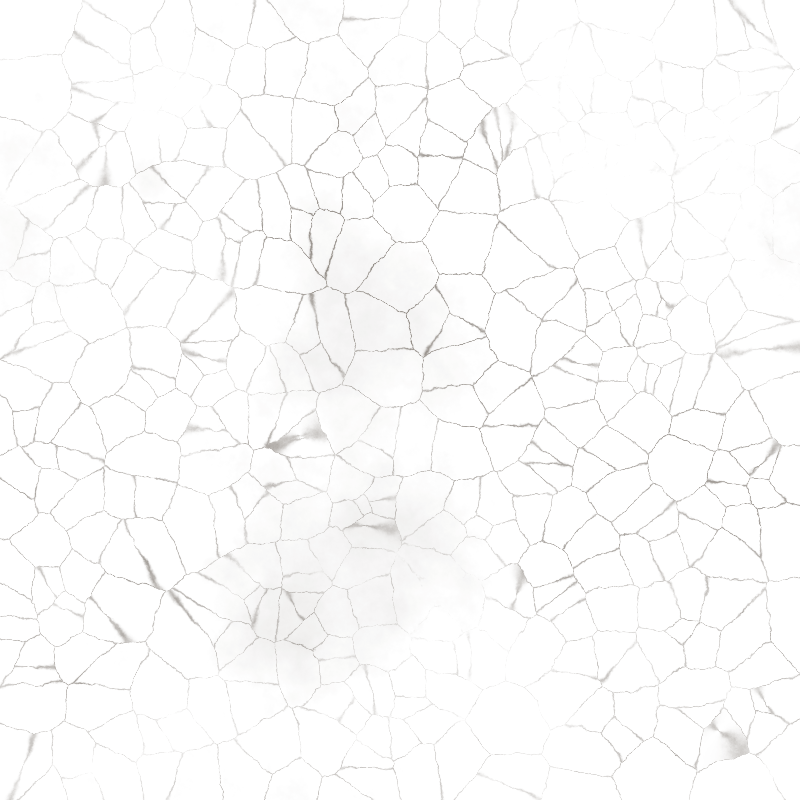
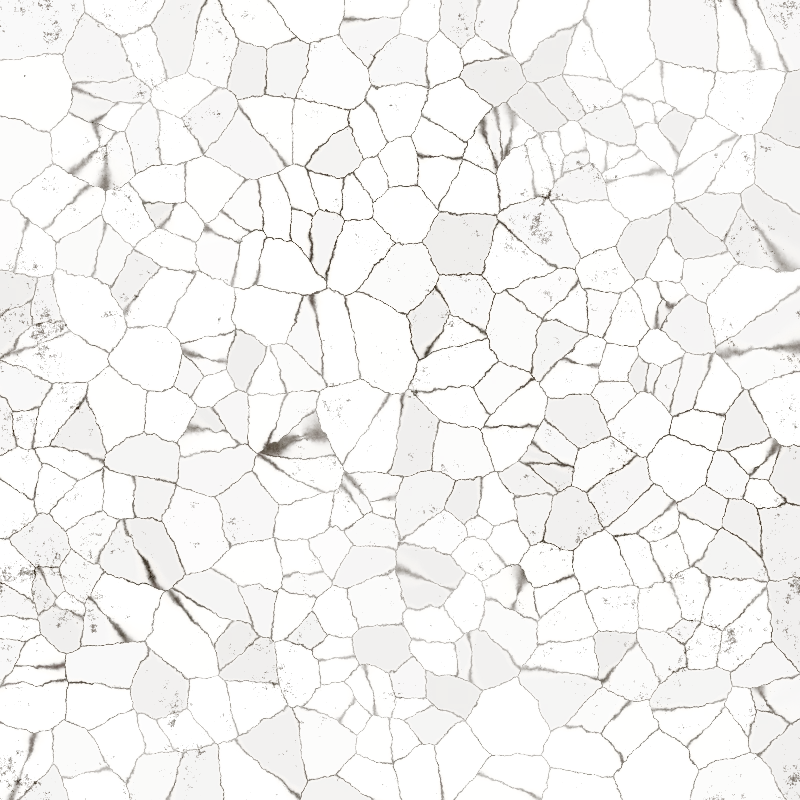
Tv-scherm: wapenkunde-pagina, Spotify "nu speelt", ruwere klokrand, vast aftellen, rode herten
- Wapenschilderen (16:00–18:00): een volledige pagina wapenkunde. De klok
  vier keer zo klein rechtsboven (alleen het uur). Uitleg: de twee metalen
  en vijf kleuren met hun heraldische namen (groot) en verf (klein), de
  gouden regel met goede en foute voorbeelden, delingen, stukken, hoe u een
  wapen leest, en hoeveel tijd er nog is tot de keuring.
- Spotify: OAuth met PKCE (geen server, geen geheim), elke 5 s
  currently-playing, bij een nieuw nummer een melding met albumhoes.
  Koppelen via het testknopje; SPOTIFY.clientId in feestje-config.js.
  Getest tegen een nagebootste Spotify.
- Aftellen tot middernacht in drie vaste vakjes: niets verspringt meer.
- Klokrand: craquelé met lichte opstaande randjes en afgebladderde plekjes,
  ook over de zon; randen in gehamerd goud (feestje-img/tv/klok.py).
- Banden: herten in rood (herten-rood.svg), blokken verder uit elkaar,
  korrel, vlekken en sleet over de band.

Claude-Session: https://claude.ai/code/session_01XPSXEtKXmQEYjGpE3XqKUk

diff --git a/feestje-tv.html b/feestje-tv.html
@@ -25,6 +25,9 @@
       background-color: var(--nacht); font-family: "Grenze", Georgia, serif; color: #f1e6cf; }
     .fries { position: absolute; left: 0; width: 1920px; height: 92px; border-top: 6px solid var(--rood); border-bottom: 6px solid var(--rood); }
     .fries svg { display: block; }
+    /* geschilderd op kalk: korrel en vlekken over de band (vooraf berekend, zie feestje-img/textuur) */
+    .fries::after { content: ""; position: absolute; inset: 0; pointer-events: none;
+      background: url(feestje-img/textuur/vlekken.webp) 0 0 / 600px 600px, url(feestje-img/textuur/korrel.webp) 0 0 / 220px 220px, url(feestje-img/tv/sleet-perk.webp) 0 0 / 256px 256px; opacity: .85; }
     #f-boven { top: 0; } #f-onder { bottom: 0; }
     .label { font-variant-caps: small-caps; letter-spacing: .1em; font-size: 26px; color: #c9a24a; }
 
@@ -106,6 +109,9 @@
     .melding b { display: block; font-variant-caps: small-caps; letter-spacing: .1em; color: var(--rubriek); font-size: 26px; font-weight: 600; }
     .melding span { font-size: 30px; line-height: 1.2; }
     .melding.weg { animation: uit .5s ease-in both; }
+    .melding.muziek img { width: 64px; height: 64px; object-fit: cover; box-shadow: 0 0 0 2px #6e4a24; }
+    .melding.muziek .noot { font-size: 48px; text-align: center; color: var(--rubriek); }
+    .melding.muziek i { font-style: normal; font-size: 26px; color: var(--inkt-zacht); }
     @keyframes in { from { opacity: 0; transform: translateX(40px); } }
     @keyframes uit { to { opacity: 0; transform: translateX(40px); } }
 
@@ -115,6 +121,37 @@
     #aftel .n { font-family: "Maximilian", serif; font-size: 440px; line-height: 1; color: var(--goud); }
     #aftel .z { font-family: "Maximilian", serif; font-size: 150px; line-height: 1.1; color: var(--goud); }
     #aftel p { font-size: 46px; margin: 10px 0 0; color: #f1e6cf; }
+
+    /* ---------- wapenschilderen (16:00–18:00): een volledige pagina wapenkunde, de klok klein rechtsboven ---------- */
+    #klok, #nu, #paneel, #wapenkunde { transition: opacity .8s ease; }
+    #wapenkunde { position: absolute; left: 34px; top: 112px; width: 1852px; height: 860px; padding: 40px 70px 30px 70px; color: var(--inkt); z-index: 2;
+      background: url(feestje-img/tv/perkament.webp) center / 100% 100% no-repeat; filter: drop-shadow(0 18px 26px rgba(0,0,0,.6)); opacity: 0; pointer-events: none; }
+    #stage.wapens #wapenkunde { opacity: 1; }
+    #stage.wapens #paneel, #stage.wapens #nu { opacity: 0; pointer-events: none; }
+    /* 4× zo klein (800 → 200 px), rechtsboven op het perkament; alleen het uur blijft leesbaar */
+    #stage.wapens #klok { left: 1650px; top: 128px; width: 210px; height: 210px; z-index: 3; }
+    #stage.wapens #klok .klein-weg { display: none; }
+    #stage.wapens #k-tijd { font-size: 74px; transform: translateY(60px); }
+    #wapenkunde h1 { font-family: "Maximilian", serif; font-weight: 400; font-size: 70px; line-height: 1; margin: 0; display: flex; align-items: flex-end; }
+    #wapenkunde h1 svg { width: 96px; height: 96px; margin-right: 4px; }
+    #wapenkunde .sub { font-size: 28px; color: var(--inkt-zacht); margin: 6px 260px 14px 0; }
+    #wapenkunde .sub b { color: var(--rubriek); font-weight: 600; }
+    .wk { display: grid; grid-template-columns: 500px 1fr; gap: 0 60px; }
+    .wk h2 { font-family: "Maximilian", serif; font-weight: 400; font-size: 38px; margin: 0 0 4px; color: var(--rubriek); }
+    .wk p { font-size: 26px; line-height: 1.25; margin: 0 0 12px; }
+    .tincturen { display: grid; grid-template-columns: 1fr 1fr; gap: 6px 24px; }
+    .tinct { display: grid; grid-template-columns: 46px 1fr; gap: 0 12px; align-items: center; height: 54px; }
+    .tinct svg { width: 42px; height: 50px; }
+    .tinct b { font-family: "Maximilian", serif; font-weight: 400; font-size: 34px; line-height: 1; }
+    .tinct small { font-size: 24px; color: var(--inkt-zacht); margin-left: 8px; }
+    .groep { font-variant-caps: small-caps; letter-spacing: .08em; font-size: 24px; color: #7a5a30; margin: 4px 0 0; grid-column: 1 / -1; }
+    .rijtje { display: flex; gap: 22px; margin: 4px 0 16px; }
+    .rijtje figure { margin: 0; text-align: center; width: 120px; }
+    .rijtje svg { width: 96px; height: 116px; display: block; margin: 0 auto 4px; }
+    .rijtje figcaption { font-size: 25px; line-height: 1.1; }
+    .rijtje .goed figcaption b { color: #3f6b2f; } .rijtje .fout figcaption b { color: var(--rubriek); }
+    .rijtje .fout svg { opacity: .9; }
+    .rijtje.klein figure { width: 108px; } .rijtje.klein svg { width: 74px; height: 89px; }
 
     /* ---------- het testknopje rechtsonder: de tijd verzetten ---------- */
     #test-knop { position: absolute; right: 18px; bottom: 18px; z-index: 20; width: 58px; height: 58px; border-radius: 50%; border: 2px solid #c9a24a;
@@ -134,8 +171,8 @@
 <div id="stage">
   <svg width="0" height="0" style="position:absolute" aria-hidden="true">
     <defs>
-      <pattern id="p-herten" width="111" height="80" patternUnits="userSpaceOnUse"><rect width="111" height="80" fill="#d9a23e" /><image href="feestje-img/malesov/herten.svg" x="2" y="4" width="107" height="72" /></pattern>
-      <pattern id="p-draken" width="105.7" height="80" patternUnits="userSpaceOnUse"><rect width="105.7" height="80" fill="#d9a23e" /><image href="feestje-img/malesov/draken.svg" x="0" y="2" width="105.7" height="76" /></pattern>
+      <pattern id="p-herten" width="130" height="80" patternUnits="userSpaceOnUse"><rect width="130" height="80" fill="#d9a23e" /><image href="feestje-img/malesov/herten-rood.svg" x="11.5" y="4" width="107" height="72" /></pattern>
+      <pattern id="p-draken" width="124" height="80" patternUnits="userSpaceOnUse"><rect width="124" height="80" fill="#d9a23e" /><image href="feestje-img/malesov/draken.svg" x="9.15" y="2" width="105.7" height="76" /></pattern>
     </defs>
   </svg>
   <div class="fries" id="f-boven"><svg width="1920" height="80"><rect width="1920" height="80" fill="url(#p-herten)" /></svg></div>
@@ -150,27 +187,30 @@
       <clipPath id="w-ring"><path d="M0,-190 A190,190 0 1 1 0,190 A190,190 0 1 1 0,-190 Z M0,-146 A146,146 0 1 0 0,146 A146,146 0 1 0 0,-146 Z" clip-rule="evenodd"/></clipPath>
       <clipPath id="w-schijf"><circle r="134"/></clipPath>
       <pattern id="w-sleet" width="64" height="64" patternUnits="userSpaceOnUse"><image href="feestje-img/tv/sleet-hout.webp" width="64" height="64"/></pattern>
+      <pattern id="w-goudrand" width="40" height="40" patternUnits="userSpaceOnUse"><image href="feestje-img/tv/goud.webp" width="40" height="40"/></pattern>
     </defs>
     <circle r="190" fill="#1a130b" />   <!-- zoals in het spel: de gouden rand grenst meteen aan de achtergrond -->
-    <g id="w-dial"><g clip-path="url(#w-ring)"><g id="w-segs"></g><image href="feestje-img/tv/barst.webp" x="-192" y="-192" width="384" height="384"/><g id="w-glow"></g><g id="w-stars"></g></g></g>
+    <g id="w-dial"><g clip-path="url(#w-ring)"><g id="w-segs"></g><g id="w-glow"></g><image href="feestje-img/tv/barst.webp" x="-192" y="-192" width="384" height="384"/><g id="w-stars"></g></g></g>
     <g id="w-nums" font-family="Maximilian, Georgia, serif" font-size="20" text-anchor="middle" dominant-baseline="central"></g>
-    <circle r="190.5" fill="none" stroke="#c9a24a" stroke-width="3" />
-    <circle r="146" fill="#1b140d" stroke="#c9a24a" stroke-width="2" />
+    <circle r="191" fill="none" stroke="#3a2810" stroke-width="7" /><circle r="191" fill="none" stroke="url(#w-goudrand)" stroke-width="5" />
+    <circle r="146" fill="#1b140d" stroke="#3a2810" stroke-width="5" /><circle r="146" fill="none" stroke="url(#w-goudrand)" stroke-width="3.5" />
     <g id="w-ticks"></g>
     <path d="M0,-150 L-7,-134 L7,-134 Z" fill="url(#w-goud)" stroke="#4a330c" stroke-width="1" stroke-linejoin="round" />
     <image href="feestje-img/tv/hout.webp" x="-134" y="-134" width="268" height="268" clip-path="url(#w-schijf)"/>
     <circle r="134" fill="none" stroke="#120b05" stroke-width="2" />
     <g text-anchor="middle">
-      <text id="k-datum" y="-98" font-family="Grenze, Georgia, serif" font-size="16" fill="#f1e6cf"></text>
+      <text id="k-datum" class="klein-weg" y="-98" font-family="Grenze, Georgia, serif" font-size="16" fill="#f1e6cf"></text>
       <text id="k-tijd" y="-60" dominant-baseline="central" font-family="Maximilian, Georgia, serif" font-size="58" fill="#e9be52"></text>
-      <line x1="-84" y1="-22" x2="84" y2="-22" stroke="#c9a24a" stroke-width="1" opacity=".7" />
-      <text id="k-a1" y="0" font-family="Grenze, Georgia, serif" font-size="14" fill="#d9cdb0" letter-spacing="1"></text>
-      <text id="k-a2" y="26" font-family="Maximilian, Georgia, serif" font-size="24" fill="#f1e6cf"></text>
-      <text id="k-b1" y="50" font-family="Grenze, Georgia, serif" font-size="14" fill="#d9cdb0" letter-spacing="1"></text>
-      <text id="k-b2" y="74" font-family="Maximilian, Georgia, serif" font-size="20" fill="#e9be52"></text>
+      <line class="klein-weg" x1="-84" y1="-22" x2="84" y2="-22" stroke="#c9a24a" stroke-width="1" opacity=".7" />
+      <text class="klein-weg" id="k-a1" y="0" font-family="Grenze, Georgia, serif" font-size="14" fill="#d9cdb0" letter-spacing="1"></text>
+      <text class="klein-weg" id="k-a2" y="26" font-family="Maximilian, Georgia, serif" font-size="24" fill="#f1e6cf"></text>
+      <g class="klein-weg rom" id="k-a2r" font-family="Grenze, Georgia, serif" font-weight="700" font-size="23" fill="#f1e6cf" transform="translate(0,26)"></g>
+      <text class="klein-weg" id="k-b1" y="50" font-family="Grenze, Georgia, serif" font-size="14" fill="#d9cdb0" letter-spacing="1"></text>
+      <text class="klein-weg" id="k-b2" y="74" font-family="Maximilian, Georgia, serif" font-size="20" fill="#e9be52"></text>
+      <g class="klein-weg rom" id="k-b2r" font-family="Grenze, Georgia, serif" font-weight="700" font-size="20" fill="#e9be52" transform="translate(0,74)"></g>
     </g>
     <!-- honger en energie, met de icoontjes uit de game (zoals in het wachtmenu) -->
-    <g id="k-lijf" font-family="Maximilian, Georgia, serif" font-size="21" fill="#f1e6cf">
+    <g id="k-lijf" class="klein-weg" font-family="Maximilian, Georgia, serif" font-size="21" fill="#f1e6cf">
       <image href="feestje-img/kcd/eten.png" x="-70" y="88" width="28" height="28"/><text id="k-eten" x="-38" y="110"></text>
       <image href="feestje-img/kcd/slaap.png" x="6" y="88" width="28" height="28"/><text id="k-slaap" x="38" y="110"></text>
     </g>
@@ -192,6 +232,8 @@
     <div id="status"></div>
   </section>
 
+  <section id="wapenkunde" class="sleet" aria-label="Wapenkunde"></section>
+
   <div id="meldingen" aria-live="polite"></div>
   <div id="aftel"><div><div class="n" id="aftel-n"></div><p id="aftel-p"></p></div></div>
 
@@ -200,9 +242,10 @@
     <h2>Testtijd</h2>
     <div>Het scherm doet alsof het nu <span class="tijd" id="test-nu"></span> is.</div>
     <div class="rij"><button data-d="-60">− 1 uur</button><button data-d="-10">− 10 min</button><button data-d="10">+ 10 min</button><button data-d="60">+ 1 uur</button></div>
-    <div class="rij"><button data-t="2026-12-31T12:00:00">31 dec, middag</button><button data-t="2026-12-31T15:59:40">vlak voor de poort</button><button data-t="2026-12-31T20:05:00">riddermaal</button>
+    <div class="rij"><button data-t="2026-12-31T12:00:00">31 dec, middag</button><button data-t="2026-12-31T15:59:40">vlak voor de poort</button><button data-t="2026-12-31T16:20:00">wapenschilderen</button><button data-t="2026-12-31T20:05:00">riddermaal</button>
       <button data-t="2026-12-31T23:59:35">vlak voor middernacht</button><button data-t="2027-01-01T00:02:00">nieuwjaar</button></div>
     <div class="rij"><input type="datetime-local" id="test-in" step="1" aria-label="Kies een tijdstip"><button id="test-echt">Echte tijd</button></div>
+    <div class="rij"><button id="sp-koppel">Spotify koppelen</button><span id="sp-staat" style="align-self:center"></span></div>
   </div>
 </div>
 
@@ -381,13 +424,28 @@ const Klok = (() => {
   const DAGEN = ['zondag', 'maandag', 'dinsdag', 'woensdag', 'donderdag', 'vrijdag', 'zaterdag'], MAANDEN = ['januari', 'februari', 'maart', 'april', 'mei', 'juni', 'juli', 'augustus', 'september', 'oktober', 'november', 'december'];
   const roman = n => n === 0 ? 'N' : romeins(n).toUpperCase();   // N = nulla, zo schreven middeleeuwse rekenmeesters nul
   const pas = (el, max) => { el.removeAttribute('textLength'); if (el.getComputedTextLength() > max) { el.setAttribute('textLength', max); el.setAttribute('lengthAdjust', 'spacingAndGlyphs'); } };
+  // Het aftellen in drie vaste vakjes (uur · min · sec): elk vakje heeft een vaste plek en wordt in zijn eigen
+  // breedte gecentreerd. Zo verspringt er niets als een getal langer of korter wordt (VIII → IX).
+  function zet(tekst, groep, waarde, breed) {
+    if (Array.isArray(waarde)) {
+      tekst.textContent = '';
+      const vak = breed / 3.3, xs = [-vak * 1.15, 0, vak * 1.15];
+      if (groep.childElementCount !== 5) groep.innerHTML = xs.map(x => `<text x="${f(x)}" text-anchor="middle"></text>`).join('') + [-vak * .575, vak * .575].map(x => `<text x="${f(x)}" text-anchor="middle">·</text>`).join('');
+      waarde.forEach((w, i) => { const el = groep.children[i]; if (el.textContent !== w) { el.textContent = w; pas(el, vak - 6); } });
+    } else {
+      groep.innerHTML = ''; tekst.textContent = waarde;
+      const rom = /^[IVXLCDMN]+$/.test(waarde);   // het jaartal in Romeinse cijfers: Grenze
+      tekst.setAttribute('font-family', rom ? 'Grenze, Georgia, serif' : 'Maximilian, Georgia, serif'); tekst.setAttribute('font-weight', rom ? 700 : 400);
+      pas(tekst, breed);
+    }
+  }
   let lastMin = -1;
   function render() {
     const t = now(), h = localHours(t);
     $('#k-tijd').textContent = fmtH(h);
     // het blok onder de streep: aftellen
     const ms = d => Math.max(0, d - t), s = Math.floor(ms(CONFIG.midnight) / 1000);
-    const hms = `${roman(Math.floor(s / 3600))} · ${roman(Math.floor(s / 60) % 60)} · ${roman(s % 60)}`;
+    const hms = [Math.floor(s / 3600), Math.floor(s / 60) % 60, s % 60].map(roman);
     const opDeDag = dayStart(t).getTime() === dayStart(new Date(CONFIG.start)).getTime();
     let a1 = '', a2 = '', b1 = '', b2 = '';
     if (t < CONFIG.start) {
@@ -396,15 +454,8 @@ const Klok = (() => {
       if (opDeDag) { b1 = 'TOT MIDDERNACHT'; b2 = hms; }   // op de dag zelf: ook al aftellen tot middernacht, in seconden
     } else if (t < CONFIG.midnight) { a1 = 'TOT MIDDERNACHT'; a2 = hms; }
     else { a1 = 'ANNO DOMINI'; a2 = roman(CONFIG.midnight.getFullYear()); b1 = 'ZALIG NIEUWJAAR'; }
-    $('#k-a1').textContent = a1; $('#k-a2').textContent = a2; $('#k-b1').textContent = b1; $('#k-b2').textContent = b2;
-    // Romeinse cijfers in Grenze (vet): in de gotische Maximilian lijken X, I en V op E, J en D
-    for (const [el, w] of [[$('#k-a2'), 230], [$('#k-b2'), 210]]) {
-      const rom = /^[IVXLCDMN ·]+$/.test(el.textContent) && el.textContent.trim();
-      el.setAttribute('font-family', rom ? 'Grenze, Georgia, serif' : 'Maximilian, Georgia, serif');
-      el.setAttribute('font-weight', rom ? 700 : 400); el.setAttribute('letter-spacing', rom ? 1 : 0);
-      pas(el, w);
-    }
-    const min = Math.floor(t / 60000);
+    $('#k-a1').textContent = a1; $('#k-b1').textContent = b1;
+    zet($('#k-a2'), $('#k-a2r'), a2, 234); zet($('#k-b2'), $('#k-b2r'), b2, 214);    const min = Math.floor(t / 60000);
     if (min === lastMin) return; lastMin = min;           // het wiel maar één keer per minuut
     paintWheel(t);
     const rot = -Math.floor(h * 60) / 60 * 15;
@@ -582,6 +633,9 @@ function aftellen() {
     else if (b.dataset.t) zet(new Date(b.dataset.t));
     else if (b.id === 'test-echt') zet(null);
   });
+  const spStaat = () => { $('#sp-staat').textContent = !Spotify.aan ? 'nog geen Client ID' : Spotify.gekoppeld() ? 'gekoppeld ✓' : 'niet gekoppeld'; $('#sp-koppel').textContent = Spotify.gekoppeld() ? 'Spotify ontkoppelen' : 'Spotify koppelen'; };
+  $('#sp-koppel').addEventListener('click', () => { if (Spotify.gekoppeld()) { Spotify.ontkoppel(); spStaat(); } else Spotify.koppel(); });
+  knop.addEventListener('click', spStaat);
   $('#test-in').addEventListener('change', e => { const t = new Date(e.target.value); if (!isNaN(t)) zet(t); });
   setInterval(() => { if (!paneel.hidden) toon(); }, 1000);
 })();
@@ -592,10 +646,142 @@ function aftellen() {
   addEventListener('pointermove', toon); toon();
 })();
 
+
+/* =========================================================
+   WAPENSCHILDEREN (16:00–18:00): een volledige pagina wapenkunde, de klok klein rechtsboven
+   ========================================================= */
+// groot: de heraldische naam; klein: de verf die u ervoor neemt (goud schildert men geel, zilver wit)
+const HERALDISCH = { or: ['Goud', 'geel'], argent: ['Zilver', 'wit'], gules: ['Keel', 'rood'], azure: ['Azuur', 'blauw'], vert: ['Sinopel', 'groen'], sable: ['Sabel', 'zwart'], purpure: ['Purper', 'paars'] };
+const schild = (w, uid) => `<svg viewBox="0 0 200 240" aria-hidden="true">${shieldMarkup(Object.assign({ t2: w.t1, div: 'plain', ch: 'none', c: 'or' }, w), uid, false, '', true)}</svg>`;
+(function wapenkunde() {
+  const tinct = k => `<div class="tinct">${schild({ t1: k }, 'wt-' + k)}<div><b>${HERALDISCH[k][0]}</b><small>${HERALDISCH[k][1]}</small></div></div>`;   // naam en betekenis op één regel
+  const fig = (w, uid, tekst, cls = '') => `<figure class="${cls}">${schild(w, uid)}<figcaption>${tekst}</figcaption></figure>`;
+  $('#wapenkunde').innerHTML = `
+    <svg id="rand-wk" aria-hidden="true" style="position:absolute;inset:0;width:100%;height:100%;pointer-events:none;overflow:visible"></svg>
+    <h1><svg id="initiaal-wk" viewBox="0 0 92 92" aria-hidden="true"></svg>apenkunde</h1>
+    <p class="sub" id="wk-sub"></p>
+    <div class="wk">
+      <div>
+        <h2>De kleuren</h2>
+        <div class="tincturen">
+          <div class="groep">Twee metalen</div>${tinct('or')}${tinct('argent')}
+          <div class="groep">Vijf kleuren</div>${tinct('gules')}${tinct('azure')}${tinct('vert')}${tinct('sable')}${tinct('purpure')}
+        </div>
+        <h2 style="margin-top:6px">De gouden regel</h2>
+        <p>Nooit metaal op metaal, nooit kleur op kleur.</p>
+        <div class="rijtje klein" style="gap:14px">
+          ${fig({ t1: 'azure', ch: 'ster', c: 'or' }, 'wg1', '<b>✓ goed</b>', 'goed')}
+          ${fig({ t1: 'argent', ch: 'kruis', c: 'gules' }, 'wg2', '<b>✓ goed</b>', 'goed')}
+          ${fig({ t1: 'sable', ch: 'ster', c: 'gules' }, 'wg3', '<b>✗ fout</b>', 'fout')}
+          ${fig({ t1: 'or', ch: 'maan', c: 'argent' }, 'wg4', '<b>✗ fout</b>', 'fout')}
+        </div>
+      </div>
+      <div>
+        <h2>Het veld delen</h2>
+        <div class="rijtje">${['pale', 'fess', 'bend', 'quarterly', 'chevron'].map((d, i) => fig({ t1: ['gules', 'azure', 'vert', 'sable', 'purpure'][i], t2: i % 2 ? 'argent' : 'or', div: d }, 'wd' + i, DIVS[d])).join('')}</div>
+        <h2>Een stuk erop</h2>
+        <div class="rijtje" style="gap:12px">${['ster', 'kruis', 'maan', 'zwaard', 'kroon', 'roos', 'beker'].map((c, i) => fig({ t1: ['azure', 'gules', 'sable', 'vert', 'purpure', 'gules', 'azure'][i], ch: c, c: i % 2 ? 'argent' : 'or' }, 'ws' + i, CHARGES[c])).join('')}</div>
+        <h2>Zo leest u een wapen</h2>
+        <p>Eerst het veld, dan de deling, dan het stuk: <i>"In azuur een ster van goud."</i> Rechts en links zijn die van de drager achter het schild, niet van u.</p>
+        <p>Houd het eenvoudig: een goed wapen herkent men op vijftig passen.</p>
+      </div>
+    </div>`;
+  // dezelfde rand met ranken als het perkament, maar breder
+  const W = 1852, H = 860, { rechthoek, dubbel, rank, goudstip } = Hand;
+  let o = GOUD;
+  o += dubbel(rechthoek(18, 18, W - 36, H - 36, 1.6, 81), rechthoek(19, 19.5, W - 38, H - 39, 1.6, 82), '#a2302a', 2.6);
+  o += dubbel(rechthoek(27, 27, W - 54, H - 54, 1.4, 83), rechthoek(27.5, 28, W - 55, H - 56, 1.4, 84), '#2f4f86', 1.8);
+  o += rank(30, 30, 0, 1, 220, 86) + rank(W - 30, H - 30, -1, 0, 260, 87) + rank(W - 30, H - 30, 0, -1, 160, 88) + rank(30, H - 30, 1, 0, 160, 90);
+  for (const [x, y] of [[22.5, 22.5], [W - 22.5, 22.5], [22.5, H - 22.5], [W - 22.5, H - 22.5]]) o += goudstip(x, y, 6);
+  $('#rand-wk').setAttribute('viewBox', `0 0 ${W} ${H}`); $('#rand-wk').innerHTML = o;
+})();
+function wapenModus() {
+  const t = now(), h = feestUur(t), aan = h >= CONFIG.partyFrom && h < 18 && t >= CONFIG.start;
+  $('#stage').classList.toggle('wapens', aan);
+  if (!aan) return;
+  if (!$('#initiaal-wk').innerHTML) { tekenInitiaal('W'); $('#initiaal-wk').innerHTML = $('#initiaal').innerHTML; tekenInitiaal(TABS[tab].letter); }
+  const m = Math.max(0, Math.ceil((dayStart(new Date(CONFIG.start)).getTime() + 18 * 3600e3 - t) / 60000));
+  $('#wk-sub').innerHTML = `Schilder uw wapen op schild of tuniek. Om <b>18:00</b> keuren de heraut en de waard: tot tien punten voor kleur, vorm en heraldiek. Nog <b>${m >= 60 ? Math.floor(m / 60) + ' u ' : ''}${m % 60} min</b>.`;
+}
+
+
+/* =========================================================
+   SPOTIFY — "Nu speelt" bij elk nieuw nummer. De muziek zelf speelt via de Spotify-app (Spotify Connect);
+   dit scherm vraagt alleen om de 5 s wat er speelt. Inloggen: OAuth "Authorization Code met PKCE"
+   (geen server, geen geheime sleutel). Tokens blijven alleen op dit toestel (localStorage).
+   ========================================================= */
+const Spotify = (() => {
+  const ID = (typeof SPOTIFY !== 'undefined' && SPOTIFY.clientId) || '';
+  const TERUG = location.origin + '/feestje-tv';          // exact zo invullen als Redirect URI bij Spotify
+  const SLEUTEL = 'feestje.spotify';
+  const lees = () => { try { return JSON.parse(localStorage.getItem(SLEUTEL)) || null; } catch { return null; } };
+  const schrijf = v => { try { v ? localStorage.setItem(SLEUTEL, JSON.stringify(v)) : localStorage.removeItem(SLEUTEL); } catch {} };
+  const b64url = buf => btoa(String.fromCharCode(...new Uint8Array(buf))).replace(/\+/g, '-').replace(/\//g, '_').replace(/=+$/, '');
+  async function koppel() {
+    if (!ID) return alert('Nog geen Spotify Client ID in feestje-config.js');
+    const verifier = b64url(crypto.getRandomValues(new Uint8Array(48)));
+    const challenge = b64url(await crypto.subtle.digest('SHA-256', new TextEncoder().encode(verifier)));
+    try { localStorage.setItem('feestje.spotify.v', verifier); } catch {}
+    location.href = 'https://accounts.spotify.com/authorize?' + new URLSearchParams({ client_id: ID, response_type: 'code', redirect_uri: TERUG,
+      code_challenge_method: 'S256', code_challenge: challenge, scope: 'user-read-currently-playing user-read-playback-state' });
+  }
+  async function token(body) {
+    const r = await fetch('https://accounts.spotify.com/api/token', { method: 'POST', headers: { 'Content-Type': 'application/x-www-form-urlencoded' },
+      body: new URLSearchParams({ client_id: ID, ...body }) });
+    const j = await r.json();
+    if (!r.ok) throw Object.assign(new Error(j.error_description || j.error || r.status), { code: j.error });
+    const oud = lees() || {};
+    const t = { access: j.access_token, refresh: j.refresh_token || oud.refresh, tot: Date.now() + (j.expires_in - 60) * 1000 };
+    schrijf(t); return t;
+  }
+  async function geldig() {
+    let t = lees(); if (!t) return null;
+    if (Date.now() > t.tot) {
+      try { t = await token({ grant_type: 'refresh_token', refresh_token: t.refresh }); }
+      catch (e) { if (e.code === 'invalid_grant') schrijf(null); return null; }   // na 6 maanden: opnieuw koppelen
+    }
+    return t;
+  }
+  let vorige = null;
+  async function kijk() {
+    const t = await geldig(); if (!t) return;
+    try {
+      const r = await fetch('https://api.spotify.com/v1/me/player/currently-playing', { headers: { Authorization: 'Bearer ' + t.access } });
+      if (r.status === 401) { schrijf({ ...t, tot: 0 }); return; }
+      if (r.status !== 200) return;                       // 204: er speelt niets
+      const j = await r.json(), it = j.item;
+      if (!it || !j.is_playing || it.id === vorige) return;
+      vorige = it.id;
+      const hoes = (it.album?.images || []).slice(-1)[0]?.url || '';
+      nuSpeelt(it.name, (it.artists || []).map(a => a.name).join(', '), hoes);
+    } catch { /* geen verbinding: volgende keer opnieuw */ }
+  }
+  async function start() {
+    if (!ID) return;
+    const q = new URLSearchParams(location.search);
+    if (q.get('code')) {                                   // terug van Spotify na het inloggen
+      let v = ''; try { v = localStorage.getItem('feestje.spotify.v') || ''; localStorage.removeItem('feestje.spotify.v'); } catch {}
+      try { await token({ grant_type: 'authorization_code', code: q.get('code'), redirect_uri: TERUG, code_verifier: v }); }
+      catch (e) { console.warn('Spotify-koppeling mislukt', e); }
+      history.replaceState(null, '', location.pathname);
+    }
+    kijk(); setInterval(kijk, 5000);
+  }
+  return { start, koppel, gekoppeld: () => !!lees(), ontkoppel: () => schrijf(null), aan: !!ID };
+})();
+function nuSpeelt(titel, artiest, hoes) {
+  const el = document.createElement('div'); el.className = 'melding muziek';
+  el.innerHTML = `${hoes ? `<img src="${esc(hoes)}" alt="">` : '<span class="noot">♪</span>'}<div><b>Nu speelt</b><span>${esc(titel)}<br><i>${esc(artiest)}</i></span></div>`;
+  const box = $('#meldingen'); box.appendChild(el);
+  while (box.children.length > 3) box.firstChild.remove();
+  setTimeout(() => { el.classList.add('weg'); setTimeout(() => el.remove(), 500); }, 8000);
+}
+
 /* ---------- de hartslag ---------- */
-function tik() { Klok.render(); aftellen(); }
+function tik() { Klok.render(); aftellen(); wapenModus(); }
 function elkeMinuut() { nuStrook(); toonLijf(); if (TABS[tab].id === 'getijden') tekenGetijden(); }
 kiesTab(0, true);
+Spotify.start();
 document.fonts.ready.then(() => { Klok.opnieuw(); elkeMinuut(); });
 tik(); elkeMinuut();
 setInterval(tik, 1000);

diff --git a/feestje-config.js b/feestje-config.js
@@ -47,3 +47,7 @@ const UITLEG = [
   ['Proeverij', 'honing', 'Proef blind en raad wat het is. Een punt per goed antwoord, en een bonus voor wie het mooist ernaast zit.'],
   ['Quiz', 'lezen', 'Van Trosky tot Kuttenberg, van bier tot boerenwijsheid. Tien vragen per ronde.'],
 ];
+
+/* Spotify: "nu speelt" op het tv-scherm. Leeg = uit. Client ID van uw eigen app op developer.spotify.com
+   (niet geheim). Redirect URI daar: https://resonantxp.com/feestje-tv  (zie feestje-tv.html, Spotify). */
+const SPOTIFY = { clientId: '' };

diff --git a/feestje-img/tv/klok.py b/feestje-img/tv/klok.py
@@ -1,6 +1,7 @@
 # Texturen voor de klok en de letters op het tv-scherm (vooraf berekend; de Chromecast hoeft niets te filteren).
 #   hout.webp       planken voor de schijf in het midden (5 planken, nerf, kwasten, donkere naden)
 #   barst.webp      craquelé over de geschilderde ring (doorzichtig, draait mee met het wiel)
+#   goud.webp       gehamerd goud met slijtplekken, voor de randen van de klok
 #   sleet-perk.webp spikkels in perkamentkleur: over de inkt gelegd lijkt die versleten
 #   sleet-hout.webp dezelfde spikkels in houtkleur, voor de gouden letters op de schijf
 # Draaien: python3 feestje-img/tv/klok.py
@@ -47,21 +48,35 @@ r = np.sqrt((xx - N / 2) ** 2 + (yy - N / 2) ** 2) / (N / 2)
 img *= (1 - .45 * np.clip(r - .45, 0, 1) ** 1.4)[..., None]
 webp(img, 'hout.webp', 'RGB')
 
-# ---------- craquelé: netwerk van haarscheurtjes (voronoi-randen, verstoord) ----------
+# ---------- craquelé: duidelijk zichtbare haarscheuren met afgebladderde randjes (zoals de ring in KCD2) ----------
 N = 800; yy, xx = np.mgrid[0:N, 0:N].astype(float)
-w1 = (ruis(N, N, 1.6, 31) - .5) * 26; w2 = (ruis(N, N, 1.6, 32) - .5) * 26
+w1 = (ruis(N, N, 1.6, 31) - .5) * 30; w2 = (ruis(N, N, 1.6, 32) - .5) * 30
 px, py = xx + w1, yy + w2
-pts = rng.uniform(0, N, (420, 2))
-d1 = np.full((N, N), 1e9); d2 = np.full((N, N), 1e9)
-for (ax, ay) in pts:
+pts = rng.uniform(0, N, (360, 2))
+d1 = np.full((N, N), 1e9); d2 = np.full((N, N), 1e9); wie = np.zeros((N, N), int)
+for k, (ax, ay) in enumerate(pts):
     d = np.hypot(px - ax, py - ay)
-    m = d < d1; d2 = np.where(m, d1, np.minimum(d2, d)); d1 = np.where(m, d, d1)
-rand = np.exp(-((d2 - d1) / .9) ** 2)
-sterkte = ruis(N, N, 1.4, 33)                                            # niet overal even gebarsten
-a = rand * np.clip(sterkte * 1.6 - .3, 0, 1) * .45
-slijt = np.clip((ruis(N, N, 1.6, 34) - .6) * 1.5, 0, 1) * .14               # zachte plekjes waar de verf dunner is
-rgba = np.zeros((N, N, 4)); rgba[..., :3] = [40, 28, 16]; rgba[..., 3] = np.clip(a + slijt, 0, 1) * 255
+    m = d < d1; d2 = np.where(m, d1, np.minimum(d2, d)); wie = np.where(m, k, wie); d1 = np.where(m, d, d1)
+gap = d2 - d1
+lijn = np.exp(-(gap / 1.1) ** 2)                                         # de scheur zelf: donker
+licht = np.exp(-((gap - 2.6) / 1.2) ** 2) * .6                            # lichte opstaande rand naast de scheur
+schol = (np.random.default_rng(5).uniform(0, 1, len(pts))[wie] - .5) * .16  # elke schol een tikje anders van toon
+sterkte = np.clip(ruis(N, N, 1.3, 33) * 1.5 - .15, .35, 1)
+bladder = np.clip((ruis(N, N, 1.0, 35) - .74) * 6, 0, 1)                  # plekjes waar de verf eraf is
+rgba = np.zeros((N, N, 4))
+donker = np.clip(lijn * sterkte * .85 + np.clip(-schol, 0, 1) + bladder * .55, 0, 1)
+helder = np.clip(licht * sterkte + np.clip(schol, 0, 1), 0, 1) * (1 - donker)
+rgba[..., :3] = (np.array([46, 32, 18]) * donker[..., None] + np.array([255, 250, 238]) * helder[..., None]) / np.maximum(donker + helder, 1e-6)[..., None]
+rgba[..., 3] = np.clip(donker + helder * .5, 0, 1) * 255
 webp(rgba, 'barst.webp')
+
+# ---------- goud voor de rand: gehamerd, met slijtplekken (tegel, voor een SVG-pattern als lijnkleur) ----------
+N = 128
+g = .55 * ruis(N, N, 1.2, 51) + .3 * ruis(N, N, .5, 52) + .15 * ruis(N, N, 1.8, 53)
+kleur = np.array([120, 84, 26]) + (np.array([250, 222, 140]) - np.array([120, 84, 26])) * g[..., None] ** 1.2
+sl = np.clip((ruis(N, N, 1.0, 54) - .78) * 5, 0, 1)
+kleur = kleur * (1 - .55 * sl[..., None]) + np.array([60, 40, 18]) * .55 * sl[..., None]
+webp(kleur, 'goud.webp', 'RGB')
 
 # ---------- sleet: spikkels die de inkt laten "slijten" ----------
 N = 256
